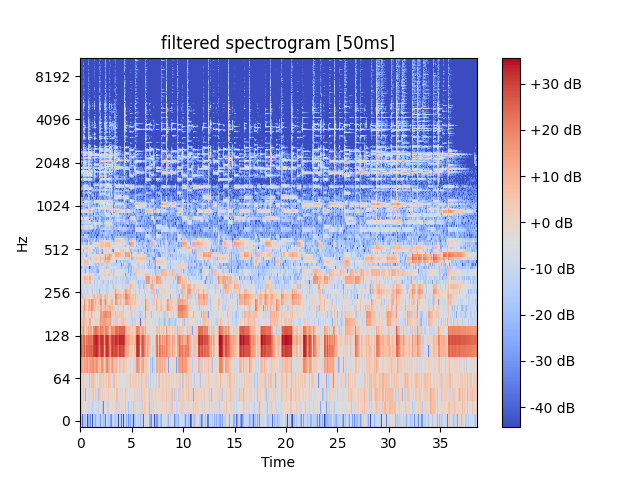
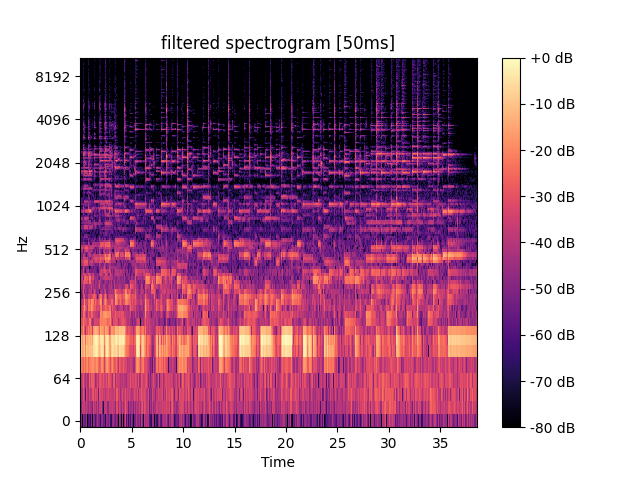
:sparkles: Added lab_10

diff --git a/labs/lab_9/src/audio_processor.py b/labs/lab_9/src/audio_processor.py
@@ -2,81 +2,116 @@ import numpy
 import librosa
 import matplotlib.pyplot as plot
 import soundfile as sf
+import os
 
 from scipy import signal
 
+
 class AudioProcessor():
-    def __init__(self, inputPath: str, outputPath: str) -> None:
-        self.__inputPath = inputPath
+    def __loadSamplesPaths(self, supportAudioExts: list[str]):
+        samplesData = []
+        for ext in supportAudioExts:
+            for file in os.listdir(self.__inputFolderPath):
+                if file.endswith(f".{ext}"):
+                    samplesData.append(f"{self.__inputFolderPath}/{file}")
+        return samplesData
+
+    def __init__(
+        self,
+        inputFolderPath: str,
+        outputPath: str,
+        supportAudioExts=['wav'],
+    ) -> None:
+        self.__inputFolderPath = inputFolderPath
         self.__outputPath = outputPath
-    
+        self.samplesPaths = self.__loadSamplesPaths(
+            supportAudioExts=supportAudioExts,
+        )
+
     def wave(self):
-        sample, sr = librosa.load(self.__inputPath)
+        for path in self.samplesPaths:
+            sample, sr = librosa.load(path)
 
-        fig, ax = plot.subplots(nrows=1)
-        librosa.display.waveshow(sample, sr=sr, ax=ax)
-        ax.set(title='Waveform')
-        ax.label_outer()
-        plot.savefig(f"{self.__outputPath}/waveplot.png")
-        plot.clf()
+            filename, ext = os.path.basename(path).split('.')
 
-    def stft(self, windows: list, seconds: int):
-        """ Short-Time Fourier Transform """
-
-        sample, sr = librosa.load(self.__inputPath)
-        
-        n_fft = int(seconds * sr)
-        ms = int(seconds * 1000)
-
-        for window in windows:
-            S = numpy.abs(
-                librosa.stft(sample, window=window, n_fft=n_fft)
-            )
-
-            fig, ax = plot.subplots()
-
-            img = librosa.display.specshow(
-                librosa.amplitude_to_db(S),
-                y_axis='log',
-                x_axis='time',
-                ax=ax,
-            )
-
-            name = window.__name__
-
-            ax.set_title(f"{name} window spectrogram [{ms}ms]")
-            fig.colorbar(img, ax=ax, format="%+2.0f dB")
-
-            plot.savefig(f"{self.__outputPath}/{name}_{ms}.png")
+            fig, ax = plot.subplots(nrows=1)
+            librosa.display.waveshow(sample, sr=sr, ax=ax)
+            ax.set(title='Waveform')
+            ax.label_outer()
+            plot.savefig(f"{self.__outputPath}/{filename}_waveplot.png")
             plot.clf()
 
-    def noiseFilter(self, seconds: int):
-        sample, sr = librosa.load(self.__inputPath)
-        n_fft = int(seconds * sr)
-        ms = int(seconds * 1000)
-        
-        sample = signal.wiener(sample)
-
+    @staticmethod
+    def plot(sample, n_fft, title: str, outputFilePath: str, yAxisMode='log'):
         S = numpy.abs(librosa.stft(sample, n_fft=n_fft))
-
         fig, ax = plot.subplots()
 
         img = librosa.display.specshow(
-            librosa.amplitude_to_db(S),
-            y_axis='log',
+            librosa.amplitude_to_db(S, ref=numpy.max),
+            y_axis=yAxisMode,
             x_axis='time',
             ax=ax,
         )
 
-        ax.set_title(f"filtered spectrogram [{ms}ms]")
+        pitches = librosa.yin(
+            sample,
+            fmin=librosa.note_to_hz('C2'),
+            fmax=librosa.note_to_hz('C7')
+        )  
+
+        print(n_fft)
+        times = librosa.times_like(pitches, hop_length=960)
+
+        ax.set_title(title)
         fig.colorbar(img, ax=ax, format="%+2.0f dB")
 
-        plot.savefig(f"{self.__outputPath}/filtered_{ms}.png")
-        plot.clf()
+        ax.plot(times, pitches, label='f0', color='cyan', linewidth=2)
+        ax.legend(loc='upper right')
 
-        sf.write(
-            f"{self.__outputPath}/filtered.wav", 
-            sample, 
-            sr, 
-            subtype='PCM_24'
-        )
+        plot.savefig(outputFilePath)
+        plot.close()
+
+    def stft(self, windows: list, seconds: int, yAxisMode="log"):
+        """ Short-Time Fourier Transform """
+
+        for path in self.samplesPaths:
+            sample, sr = librosa.load(path)
+
+            n_fft = int(seconds * sr)
+            ms = int(seconds * 1000)
+
+            for window in windows:
+                name = window.__name__
+                filename, ext = os.path.basename(path).split('.')
+
+                AudioProcessor.plot(
+                    sample=sample,
+                    n_fft=n_fft,
+                    title=f"{yAxisMode} {name} window spectrogram [{ms}ms]",
+                    outputFilePath=f"{self.__outputPath}/{filename}_{name}_{yAxisMode}_{ms}.png",
+                    yAxisMode=yAxisMode
+                )
+
+    def noiseFilter(self, seconds: int, yAxisMode='log'):
+        for path in self.samplesPaths:
+            sample, sr = librosa.load(path)
+
+            n_fft = int(seconds * sr)
+            ms = int(seconds * 1000)
+
+            sample = signal.wiener(sample)
+
+
+            AudioProcessor.plot(
+                sample=sample,
+                title=f"filtered spectrogram [{ms}ms]",
+                outputFilePath=f"{self.__outputPath}/filtered_{ms}.png",
+                yAxisMode=yAxisMode
+            )
+
+            sf.write(
+                f"{self.__outputPath}/filtered.wav",
+                sample,
+                sr,
+                subtype='PCM_24'
+            )

diff --git a/labs/lab_10/src/voice_analyzer.py b/labs/lab_10/src/voice_analyzer.py
@@ -1,0 +1,75 @@
+import librosa
+import numpy
+import os
+import math
+
+from statistics import median
+from scipy.signal import find_peaks
+import matplotlib.pyplot as plot
+
+
+class VoiceAnalyzer():
+    """ Analyzes voice """
+
+    def __init__(self, inputSamplesPaths: list[str]) -> None:
+        self.__inputSamplesPaths = inputSamplesPaths
+
+    def getFormants(self):
+        for path in self.__inputSamplesPaths:
+            print(f'\nFor file {path}:')
+            sample, sr = librosa.load(path)
+
+            spectrogram = numpy.abs(librosa.stft(sample))
+            energy = numpy.sum(spectrogram, axis=1)
+            peaks, _ = find_peaks(energy, threshold=10)
+
+            formant_frequencies = librosa.fft_frequencies(sr=sr)[peaks]
+            formant_frequencies = [f for f in formant_frequencies if f < 4500]
+
+            energyFormants = {
+                formant_frequencies[i]: energy[peaks[i]]
+                for i in range(len(formant_frequencies))
+            }
+
+            sortedFormants = sorted(
+                [
+                    (k, v)
+                    for k, v in energyFormants.items()
+                ],
+                key=lambda a: a[1],
+                reverse=True
+            )
+
+            print('Top 3 formants by energy:')
+            for f, e in sortedFormants[:3]:
+                print('Formant', f, 'energy =', e)
+
+            q = len(formant_frequencies) // 4
+
+            # print(formant_frequencies)
+
+            formants = []
+            for i in range(4):
+                max_energy = None
+                max_f = None
+                for f in formant_frequencies[q * i: q * (i + 1)]:
+                    if max_f == None or energyFormants[f] > max_energy:
+                        max_f = f
+                        max_energy = energyFormants[f]
+                formants.append(max_f)
+                if len(formants) == 4:
+                    break
+
+            print('Min frequency:', formant_frequencies[0])
+            print('Max frequency:', formant_frequencies[-1])
+            for i in range(4):
+                print(f'Formant {i + 1} =', formants[i])
+
+            pitches = librosa.yin(
+                y=sample,
+                sr=sr,
+                fmin=formant_frequencies[0],
+                fmax=formants[3],
+            )
+
+            print('Fundamental frequency:', median(pitches))

diff --git a/labs/main.py b/labs/main.py
@@ -2,6 +2,7 @@ from scipy import signal
 
 from images_processor import ImagesProcessor
 from lab_1.src.transformers import *
+from lab_10.src.voice_analyzer import VoiceAnalyzer
 from lab_2.src.transformers import (
     GlobalBinzrizationTransformer,
     GrayscaleTransformer,
@@ -391,23 +392,63 @@ def lab8():
 
 def lab9():
     processor = AudioProcessor(
-        inputPath="./labs/lab_9/input/witcher.wav",
+        inputFolderPath="./labs/lab_9/input",
         outputPath="./labs/lab_9/output"
     )
 
-    # processor.wave()
-    # processor.stft(
-    #     windows=[
-    #         signal.windows.hann,
-    #         signal.windows.cosine,
-    #     ],
-    #     seconds=0.050
-    # )
+    processor.wave()
+    processor.stft(
+        windows=[
+            signal.windows.hann,
+            signal.windows.cosine,
+        ],
+        seconds=0.050
+    )
+    processor.stft(
+        windows=[
+            signal.windows.hann,
+            signal.windows.cosine,
+        ],
+        seconds=0.050,
+        yAxisMode='linear',
+    )
     processor.noiseFilter(seconds=0.050)
 
     ImagesProcessor.addImagesToReadme(
         inputFolderPath="./labs/lab_9/output",
         outputPath="./labs/lab_9",
+        relativePathFromOutputToInput="./output",
+    )
+
+
+def lab10():
+    processor = AudioProcessor(
+        inputFolderPath="./labs/lab_10/input",
+        outputPath="./labs/lab_10/output"
+    )
+
+    processor.wave()
+    processor.stft(
+        windows=[
+            signal.windows.hann,
+        ],
+        seconds=0.050,
+    )
+
+    processor.stft(
+        windows=[
+            signal.windows.hann,
+        ],
+        seconds=0.050,
+        yAxisMode='linear',
+    )
+
+    analyzer = VoiceAnalyzer(inputSamplesPaths=processor.samplesPaths)
+    analyzer.getFormants()
+
+    ImagesProcessor.addImagesToReadme(
+        inputFolderPath="./labs/lab_10/output",
+        outputPath="./labs/lab_10",
         relativePathFromOutputToInput="./output",
     )
 
@@ -421,7 +462,8 @@ def main():
     # lab6()
     # lab7()
     # lab8()
-    lab9()
+    # lab9()
+    lab10()
 
 
 if __name__ == "__main__":

diff --git a/labs/lab_10/README.md b/labs/lab_10/README.md
@@ -1,0 +1,34 @@
+### Лабораторная работа №10. Обработка голоса
+> Программное обеспечение:
+- Утилита ffmpeg (сайт www.ffmpeg.org).
+- Библиотеки python на выбор: numpy, pydub, scipy.signal, matplotlib.pyplot,
+pylab, pywt, pyWavelets, librosa и другие.
+
+1. Каждый студент c помощью микрофона записывает звуковые дорожки в формате
+*.wav (можно и mp3, но не все библиотеки с ходу его понимают, и лучше один
+канал, чтоб стерео не мешало):
+    - Образец собственного голоса для звука «А» с максимальным частотным
+диапазоном (от баса до визга и даже фальцета), так чтобы громкость была
+более-менее одинаковой. Длительность до 10 секунд.
+    - Образец собственного голоса для звука «И», аналогично.
+    - Имитация собачьего лая (молодые люди) и мяуканья (девушки).
+2. Построить спектрограммы и сохранить в файл, пользуясь оконным
+преобразованием Фурье с окном Ханна (например). Частоты имеет смысл
+визуализировать на логарифмической шкале.
+3. Найти минимальную и максимальную частоту голоса.
+4. Найти наиболее тембрально окрашенный основной тон – частота, для которой
+прослеживается наибольшее количество обертонов.
+5. Найти три самые сильные форманты для издаваемых звуков – частоты с
+наибольшей энергией в некоторой окрестности по времени. 
+
+### **Examples**
+
+![](./output/voice_a_hann_linear_50.png)
+![](./output/voice_a_hann_log_50.png)
+![](./output/voice_a_waveplot.png)
+![](./output/voice_gav_hann_linear_50.png)
+![](./output/voice_gav_hann_log_50.png)
+![](./output/voice_gav_waveplot.png)
+![](./output/voice_i_hann_linear_50.png)
+![](./output/voice_i_hann_log_50.png)
+![](./output/voice_i_waveplot.png)

diff --git a/labs/lab_9/README.md b/labs/lab_9/README.md
@@ -19,7 +19,9 @@ pylab, pywt, pyWavelets, librosa и другие.
 
 ### **Examples**
 
-![](./output/cosine_50.png)
 ![](./output/filtered_50.png)
-![](./output/hann_50.png)
-![](./output/waveplot.png)
+![](./output/witcher_cosine_linear_50.png)
+![](./output/witcher_cosine_log_50.png)
+![](./output/witcher_hann_linear_50.png)
+![](./output/witcher_hann_log_50.png)
+![](./output/witcher_waveplot.png)
